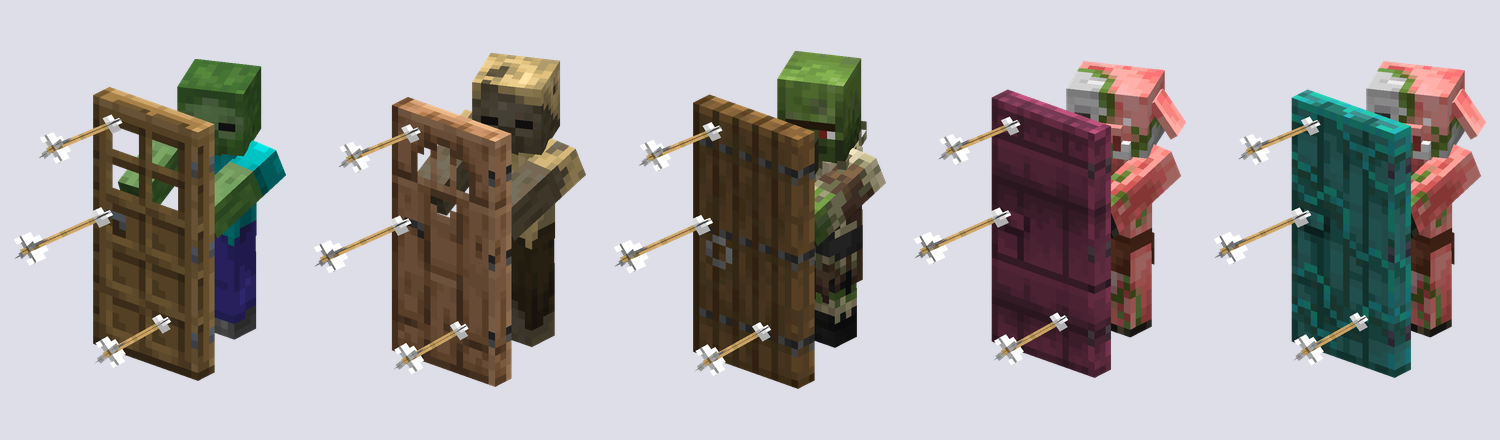
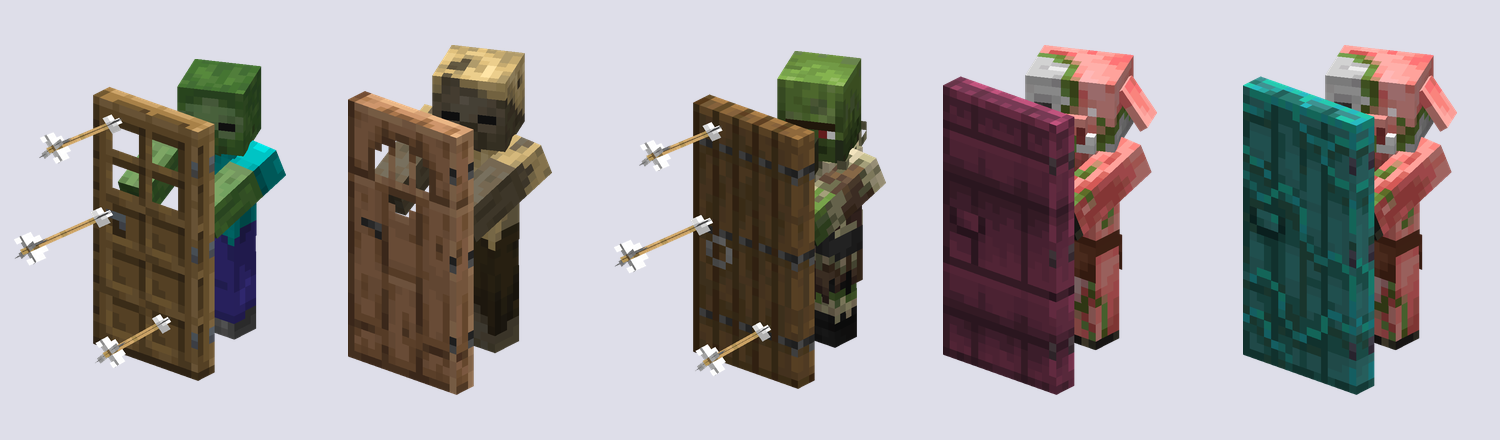
Add door-breaking footage and vary gallery images

Changed region(s): [[0.6133, 0.0886, 1.0, 0.9159], [0.2147, 0.0886, 0.3987, 0.8864]]

diff --git a/README.md b/README.md
@@ -19,6 +19,16 @@ Doors move with the zombie as it takes cover, swings, and recovers from a hit.
 
 ![Door blocking, overhead cover, and attacks](docs/images/door-combat.gif)
 
+Blocked hits leave cracks in the door until it breaks.
+
+![An intact door, a damaged door, and the moment it breaks](docs/images/door-wear.png)
+
+![A carried door cracking and breaking under repeated attacks](docs/images/shield-breaking.gif)
+
+Zombies can pick up the wooden doors they break down.
+
+![A zombie breaking a placed door and taking it as a shield](docs/images/door-breaking.gif)
+
 ![A trident embedded in a door](docs/images/trident-block.png)
 
 Embedded tridents drop when the door breaks or the carrier loses it. Loyalty
